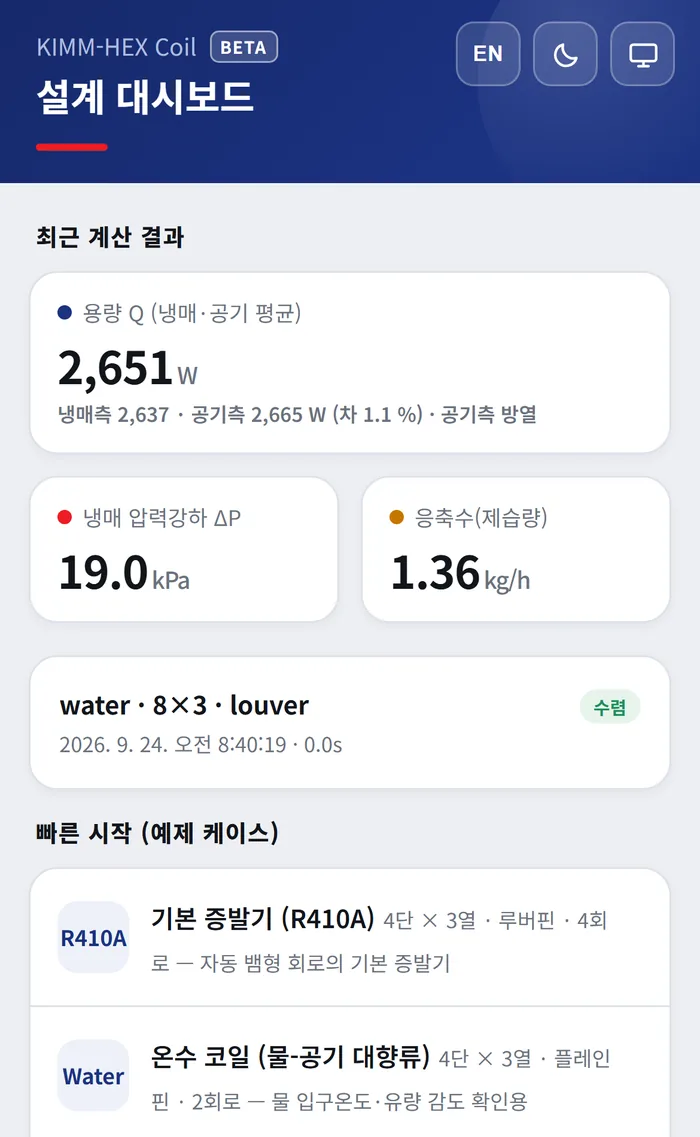
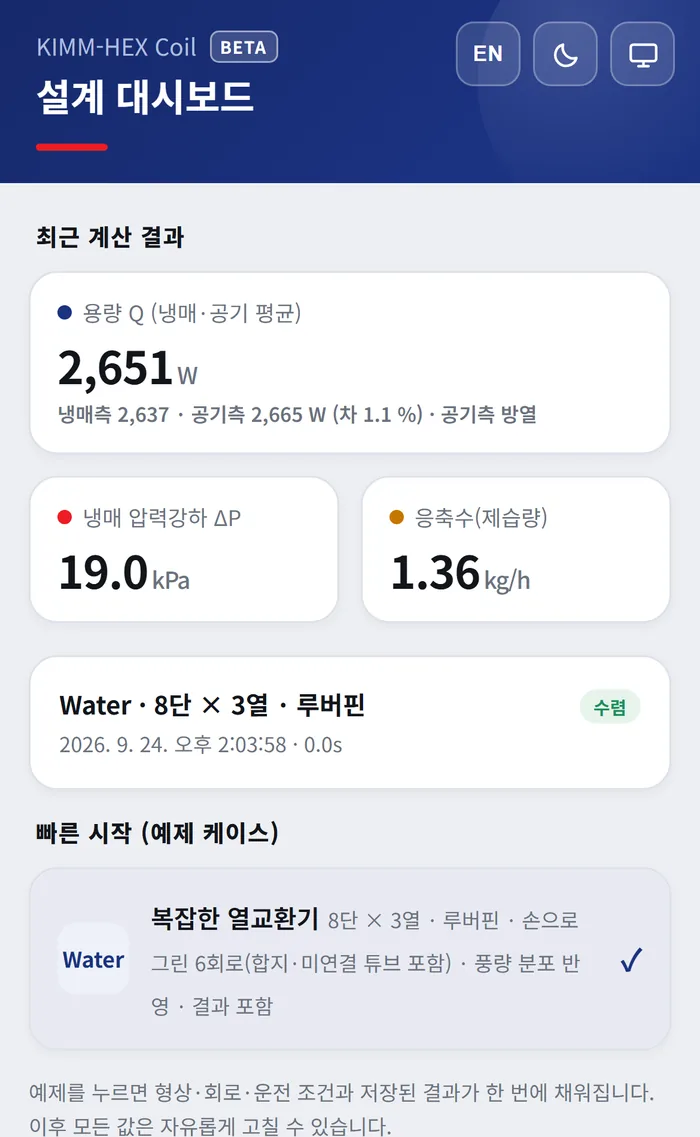
모바일 [빠른 시작] 예제 1개 화면 · 결과 내보내기 조건 · 베타 테스트 중 · 용량 정의
- 모바일 화면 교체(예제 1개 · 사례 이름 'Water · 8단 × 3열 · 루버핀', 앱 7a13aa7)
- 모바일 소개문: [빠른 시작] 예제로 저장된 결과까지 채워짐 · 튜토리얼도 휴대폰에서
- 결과 내보내기는 허용된 접근코드에 한함(사양표) · 모바일 칩은 '엑셀 템플릿 입출력'
- 히어로·사양표에 베타 테스트 중 · 용량 Q(냉매·공기 평균)

diff --git a/index.html b/index.html
@@ -463,7 +463,7 @@ h2{
         <a class="btn btn-ghost" href="#contact" data-i18n="hero.cta.contact">문의 · 협력 제안</a>
         <a class="btn btn-ghost" href="#features" data-i18n="hero.cta.features">기능 살펴보기</a>
       </div>
-      <p class="applink" data-i18n="hero.applink"><b>hexcoil.kr</b> — 설치 없이 브라우저에서 바로 씁니다. 시작 화면의 <b>등록 없이 둘러보기</b>로 화면과 예제 결과를 먼저 살펴보실 수 있고, 계산을 실행하려면 <b>접근코드</b>가 필요합니다. 시작 화면의 [접근코드 발급 요청]에 회사·이름·이메일을 적어 주시면 이메일로 보내드립니다.</p>
+      <p class="applink" data-i18n="hero.applink"><b>hexcoil.kr</b> — 설치 없이 브라우저에서 바로 씁니다. 시작 화면의 <b>등록 없이 둘러보기</b>로 화면과 예제 결과를 먼저 살펴보실 수 있고, 계산을 실행하려면 <b>접근코드</b>가 필요합니다. 시작 화면의 [접근코드 발급 요청]에 회사·이름·이메일을 적어 주시면 이메일로 보내드립니다. 현재 <b>베타 테스트 중</b>이라 기능과 화면이 예고 없이 바뀔 수 있습니다.</p>
       <!--  2026-09-03(7차): 히어로의 **결과 화면 컷(assets/hero.webp = Result ① 성능요약)** 을 뺐다.
             모바일 판(m.html)에는 없던 것이라 두 판의 읽는 순서가 어긋났고, 기능 절에서
             ⑤ 성능요약 화면을 다시 보여주므로 같은 그림이 지면 위아래로 두 번 나왔다.
@@ -633,17 +633,12 @@ h2{
         <div>
           <p class="kicker">Mobile</p>
           <h2 data-i18n="mob.h">휴대폰에서도 설계 전체를</h2>
-          <p style="margin:16px 0 0; font-size:17.5px; color:var(--gray-600)" data-i18n="mob.p">
-            휴대폰 전용 화면에서 <b>형상 · 회로 · 유체 · 상관식 · 풍량</b>을 모두 편집하고
-            <b>성능 요약과 면/열별 분포</b>까지 확인합니다. 예제 케이스를 고르면 한 번에 채워집니다.
-            <b>데스크톱과 같은 계산 엔진</b>이라 결과가 다르지 않습니다.
-            홈 화면에 추가하면 주소창 없이 앱처럼 열립니다.
-          </p>
+          <p style="margin:16px 0 0; font-size:17.5px; color:var(--gray-600)" data-i18n="mob.p">휴대폰 전용 화면에서 <b>형상 · 회로 · 유체 · 상관식 · 풍량</b>을 모두 편집하고 <b>성능 요약과 면/열별 분포</b>까지 확인합니다. [빠른 시작] 예제를 누르면 형상·회로·운전 조건과 저장된 결과가 한 번에 채워지고, 튜토리얼도 휴대폰에서 그대로 따라 할 수 있습니다. <b>데스크톱과 같은 계산 엔진</b>이라 결과가 다르지 않습니다. 홈 화면에 추가하면 주소창 없이 앱처럼 열립니다.</p>
           <div class="chips" style="margin-top:22px">
             <span class="chip" data-i18n="mob.c.edit">형상·회로 편집</span>
             <span class="chip" data-i18n="mob.c.tap">탭으로 회로 연결</span>
             <span class="chip" data-i18n="mob.c.map">면/열별 분포</span>
-            <span class="chip" data-i18n="mob.c.xls">엑셀 내보내기</span>
+            <span class="chip" data-i18n="mob.c.xls">엑셀 템플릿 입출력</span>
             <span class="chip" data-i18n="mob.c.home">홈 화면에 추가</span>
           </div>
         </div>
@@ -662,7 +657,7 @@ h2{
       <div class="sec-head">
         <p class="kicker">Specification</p>
         <h2 data-i18n="spec.h">계산 · 입출력 사양</h2>
-        <p data-i18n="spec.p">v1.0 기준입니다.</p>
+        <p data-i18n="spec.p">v1.0 기준입니다(베타 테스트 중).</p>
       </div>
       <div class="spec-scroll">
         <table class="spec">
@@ -683,13 +678,8 @@ h2{
               <br>유량 분배: ΔP 균일화(반복 자기분배) 또는 균등 분배
             </td></tr>
             <tr><th data-i18n="spec.inlet.k">입구 지정 방식</th><td data-i18n="spec.inlet.v">(1) 압력·온도(단상) · (2) 압력·건도(2상) · (3) 압력·엔탈피 · (4) 출구압력·엔탈피(입구압력은 압력강하를 포함해 역산)<br>물 포함 모든 작동유체 공통 · 부동액 수용액은 (1)만</td></tr>
-            <tr><th data-i18n="spec.res.k">결과</th><td data-i18n="spec.res.v">
-              용량 Q · 압력강하 ΔP · 응축수 · 공기/냉매 입출구 상태 · 습공기선도 · P-h 선도 · 면/열별 분포 컬러맵
-            </td></tr>
-            <tr><th data-i18n="spec.file.k">파일</th><td data-i18n="spec.file.v">
-              엑셀 설계 템플릿 입출력 · 결과 내보내기(형상·회로도·조건·셀별 원자료)
-              <br><b>결과 파일</b>을 불러오면 계산 없이 결과 복원
-            </td></tr>
+            <tr><th data-i18n="spec.res.k">결과</th><td data-i18n="spec.res.v">용량 Q(냉매·공기 평균) · 압력강하 ΔP · 응축수 · 공기/냉매 입출구 상태 · 습공기선도 · P-h 선도 · 면/열별 분포 컬러맵</td></tr>
+            <tr><th data-i18n="spec.file.k">파일</th><td data-i18n="spec.file.v">엑셀 설계 템플릿 입출력 · 결과 내보내기(형상·회로도·조건·셀별 원자료 — 허용된 접근코드에 한함)<br><b>결과 파일</b>을 불러오면 계산 없이 결과 복원</td></tr>
             <tr><th data-i18n="spec.env.k">실행환경</th><td data-i18n="spec.env.v">웹 브라우저(무설치) · 모바일 전용 화면 · 라이트/다크 화면 전환 · 한국어/English</td></tr>
             <tr><th data-i18n="spec.size.k">Sizing</th><td data-i18n="spec.size.v">목표 부하로부터 형상 후보 산출<span class="tag">개발 예정</span></td></tr>
           </tbody>

diff --git a/m.html b/m.html
@@ -276,7 +276,7 @@ html[lang="en"] .hdr .ctr, html[lang="en"] .hdr .div{display:none}
          data-i18n="hero.cta.app">프로그램 접속 ↗</a>
       <a class="btn btn-ghost" href="#contact" data-i18n="hero.cta.contact">문의 · 협력 제안</a>
       <a class="btn btn-ghost" href="#features" data-i18n="hero.cta.features">기능 살펴보기</a>
-      <p class="applink" data-i18n="hero.applink"><b>hexcoil.kr</b> — 설치 없이 브라우저에서 바로 씁니다. 시작 화면의 <b>등록 없이 둘러보기</b>로 화면과 예제 결과를 먼저 살펴보실 수 있고, 계산을 실행하려면 <b>접근코드</b>가 필요합니다. 시작 화면의 [접근코드 발급 요청]에 회사·이름·이메일을 적어 주시면 이메일로 보내드립니다.</p>
+      <p class="applink" data-i18n="hero.applink"><b>hexcoil.kr</b> — 설치 없이 브라우저에서 바로 씁니다. 시작 화면의 <b>등록 없이 둘러보기</b>로 화면과 예제 결과를 먼저 살펴보실 수 있고, 계산을 실행하려면 <b>접근코드</b>가 필요합니다. 시작 화면의 [접근코드 발급 요청]에 회사·이름·이메일을 적어 주시면 이메일로 보내드립니다. 현재 <b>베타 테스트 중</b>이라 기능과 화면이 예고 없이 바뀔 수 있습니다.</p>
     </div>
   </div>
 
@@ -424,15 +424,12 @@ html[lang="en"] .hdr .ctr, html[lang="en"] .hdr .div{display:none}
     <div class="wrap">
       <p class="kicker">Mobile</p>
       <h2 data-i18n="mob.h">휴대폰에서도 설계 전체를</h2>
-      <p class="sub" data-i18n="mob.p">휴대폰 전용 화면에서 <b>형상 · 회로 · 유체 · 상관식 · 풍량</b>을 모두 편집하고
-         <b>성능 요약과 면/열별 분포</b>까지 확인합니다. 예제 케이스를 고르면 한 번에 채워집니다.
-         <b>데스크톱과 같은 계산 엔진</b>이라 결과가 다르지 않습니다.
-         홈 화면에 추가하면 주소창 없이 앱처럼 열립니다.</p>
+      <p class="sub" data-i18n="mob.p">휴대폰 전용 화면에서 <b>형상 · 회로 · 유체 · 상관식 · 풍량</b>을 모두 편집하고 <b>성능 요약과 면/열별 분포</b>까지 확인합니다. [빠른 시작] 예제를 누르면 형상·회로·운전 조건과 저장된 결과가 한 번에 채워지고, 튜토리얼도 휴대폰에서 그대로 따라 할 수 있습니다. <b>데스크톱과 같은 계산 엔진</b>이라 결과가 다르지 않습니다. 홈 화면에 추가하면 주소창 없이 앱처럼 열립니다.</p>
       <div class="chips">
         <span class="chip" data-i18n="mob.c.edit">형상·회로 편집</span>
         <span class="chip" data-i18n="mob.c.tap">탭으로 회로 연결</span>
         <span class="chip" data-i18n="mob.c.map">면/열별 분포</span>
-        <span class="chip" data-i18n="mob.c.xls">엑셀 내보내기</span>
+        <span class="chip" data-i18n="mob.c.xls">엑셀 템플릿 입출력</span>
         <span class="chip" data-i18n="mob.c.home">홈 화면에 추가</span>
       </div>
       <figure class="shot" style="max-width:280px;margin:16px auto 0">
@@ -448,7 +445,7 @@ html[lang="en"] .hdr .ctr, html[lang="en"] .hdr .div{display:none}
     <div class="wrap">
       <p class="kicker">Specification</p>
       <h2 data-i18n="spec.h">계산 · 입출력 사양</h2>
-      <p class="sub" data-i18n="spec.p">v1.0 기준입니다.</p>
+      <p class="sub" data-i18n="spec.p">v1.0 기준입니다(베타 테스트 중).</p>
       <table class="spec">
         <tbody>
           <tr><th data-i18n="spec.fluid.k">작동유체</th><td data-i18n="spec.fluid.v"><b>70종</b> — 물 · 공기 · R717(암모니아) · R744(CO<sub>2</sub>) · R290 · R410A ·
@@ -461,10 +458,8 @@ html[lang="en"] .hdr .ctr, html[lang="en"] .hdr .div{display:none}
             <br>미연결 튜브는 독립 1튜브 회로로 자동 처리
             <br>유량 분배: ΔP 균일화(반복 자기분배) 또는 균등 분배</td></tr>
           <tr><th data-i18n="spec.inlet.k">입구 지정 방식</th><td data-i18n="spec.inlet.v">(1) 압력·온도(단상) · (2) 압력·건도(2상) · (3) 압력·엔탈피 · (4) 출구압력·엔탈피(입구압력은 압력강하를 포함해 역산)<br>물 포함 모든 작동유체 공통 · 부동액 수용액은 (1)만</td></tr>
-          <tr><th data-i18n="spec.res.k">결과</th><td data-i18n="spec.res.v">용량 Q · 압력강하 ΔP · 응축수 · 공기/냉매 입출구 상태 ·
-            습공기선도 · P-h 선도 · 면/열별 분포 컬러맵</td></tr>
-          <tr><th data-i18n="spec.file.k">파일</th><td data-i18n="spec.file.v">엑셀 설계 템플릿 입출력 · 결과 내보내기(형상·회로도·조건·셀별 원자료)
-            <br><b>결과 파일</b>을 불러오면 계산 없이 결과 복원</td></tr>
+          <tr><th data-i18n="spec.res.k">결과</th><td data-i18n="spec.res.v">용량 Q(냉매·공기 평균) · 압력강하 ΔP · 응축수 · 공기/냉매 입출구 상태 · 습공기선도 · P-h 선도 · 면/열별 분포 컬러맵</td></tr>
+          <tr><th data-i18n="spec.file.k">파일</th><td data-i18n="spec.file.v">엑셀 설계 템플릿 입출력 · 결과 내보내기(형상·회로도·조건·셀별 원자료 — 허용된 접근코드에 한함)<br><b>결과 파일</b>을 불러오면 계산 없이 결과 복원</td></tr>
           <tr><th data-i18n="spec.env.k">실행환경</th><td data-i18n="spec.env.v">웹 브라우저(무설치) · 모바일 전용 화면 · 라이트/다크 화면 전환 · 한국어/English</td></tr>
           <tr><th data-i18n="spec.size.k">Sizing</th><td data-i18n="spec.size.v">목표 부하로부터 형상 후보 산출<span class="tag">개발 예정</span></td></tr>
         </tbody>

diff --git a/site-i18n.js b/site-i18n.js
@@ -30,7 +30,7 @@
     'hero.cta.app': 'Open the program ↗',
     'hero.cta.contact': 'Contact · collaboration',
     'hero.cta.features': 'See the features',
-    'hero.applink': '<b>hexcoil.kr</b> — runs in your browser, with nothing to install. Choose <b>Look around without registering</b> on the start page to see the screens and an example result first; running a calculation needs an <b>access code</b>. Enter your company, name and e-mail under [Request an access code] on the start page and we will e-mail one to you.',
+    'hero.applink': '<b>hexcoil.kr</b> — runs in your browser, with nothing to install. Choose <b>Look around without registering</b> on the start page to see the screens and an example result first; running a calculation needs an <b>access code</b>. Enter your company, name and e-mail under [Request an access code] on the start page and we will e-mail one to you. The service is in <b>beta testing</b>, so features and screens may change without notice.',
 
     'stats.u.kind': '&nbsp;fluids', 'stats.u.case': '&nbsp;cases', 'stats.u.kind2': '&nbsp;models', 'stats.u.dir': '&nbsp;directions',
     'stats.fluids': 'Working fluids supported<br>natural refrigerants · air · brines included',
@@ -90,13 +90,13 @@
     'f6.cap': '⑥ Result (Map) — distribution colour maps by face and row',
 
     'mob.h': 'The whole design on a phone',
-    'mob.p': 'The phone screen edits <b>geometry, circuitry, fluids, correlations and airflow</b> and shows the <b>performance summary and the face/row distributions</b>. Pick an example case and everything is filled in at once. It runs <b>the same calculation engine as the desktop</b>, so the results do not differ. Add it to your home screen and it opens like an app, without an address bar.',
+    'mob.p': 'The phone screen edits <b>geometry, circuitry, fluids, correlations and airflow</b> and shows the <b>performance summary and the face/row distributions</b>. Tap the [Quick start] example and geometry, circuit, operating conditions and its saved results are filled in at once — and the guided tutorial runs on the phone as well. It runs <b>the same calculation engine as the desktop</b>, so the results do not differ. Add it to your home screen and it opens like an app, without an address bar.',
     'mob.c.edit': 'Geometry &amp; circuit editing', 'mob.c.tap': 'Tap to connect circuits',
-    'mob.c.map': 'Face/row distribution', 'mob.c.xls': 'Excel export', 'mob.c.home': 'Add to home screen',
+    'mob.c.map': 'Face/row distribution', 'mob.c.xls': 'Excel template import/export', 'mob.c.home': 'Add to home screen',
     'mob.cap': 'Mobile screen',
 
     'spec.h': 'Calculation and input/output specifications',
-    'spec.p': 'As of v1.0.',
+    'spec.p': 'As of v1.0 (in beta testing).',
     'spec.fluid.k': 'Working fluids',
     'spec.fluid.v': '<b>70 fluids</b> — water · air · R717 (ammonia) · R744 (CO<sub>2</sub>) · R290 · R410A · R134a · R1234yf · <b>brines (12 EG/PG aqueous solutions)</b> and more<br><span style="font-size:14.5px; color:var(--text-muted)">Properties from CoolProp</span>',
     'spec.air.k': 'Air side',
@@ -108,9 +108,9 @@
     'spec.inlet.k': 'Inlet specification',
     'spec.inlet.v': '(1) pressure · temperature (single phase) · (2) pressure · vapour quality (two phase) · (3) pressure · enthalpy · (4) outlet pressure · enthalpy (the inlet pressure is back-calculated including the pressure drop)<br>Common to every working fluid including water · brines use (1) only',
     'spec.res.k': 'Results',
-    'spec.res.v': 'Capacity Q · pressure drop ΔP · condensate · air and refrigerant inlet/outlet states · psychrometric chart · P–h diagram · face/row distribution colour maps',
+    'spec.res.v': 'Capacity Q (mean of refrigerant and air sides) · pressure drop ΔP · condensate · air and refrigerant inlet/outlet states · psychrometric chart · P–h diagram · face/row distribution colour maps',
     'spec.file.k': 'Files',
-    'spec.file.v': 'Excel design template import and export · result export (geometry, circuit diagram, conditions, per-cell raw data)<br>Load a <b>result file</b> and the results are restored without recomputing',
+    'spec.file.v': 'Excel design template import and export · result export (geometry, circuit diagram, conditions, per-cell raw data — authorised access codes only)<br>Load a <b>result file</b> and the results are restored without recomputing',
     'spec.env.k': 'Environment',
     'spec.env.v': 'Web browser (no installation) · dedicated mobile screen · light/dark theme · Korean/English',
     'spec.size.k': 'Sizing',
